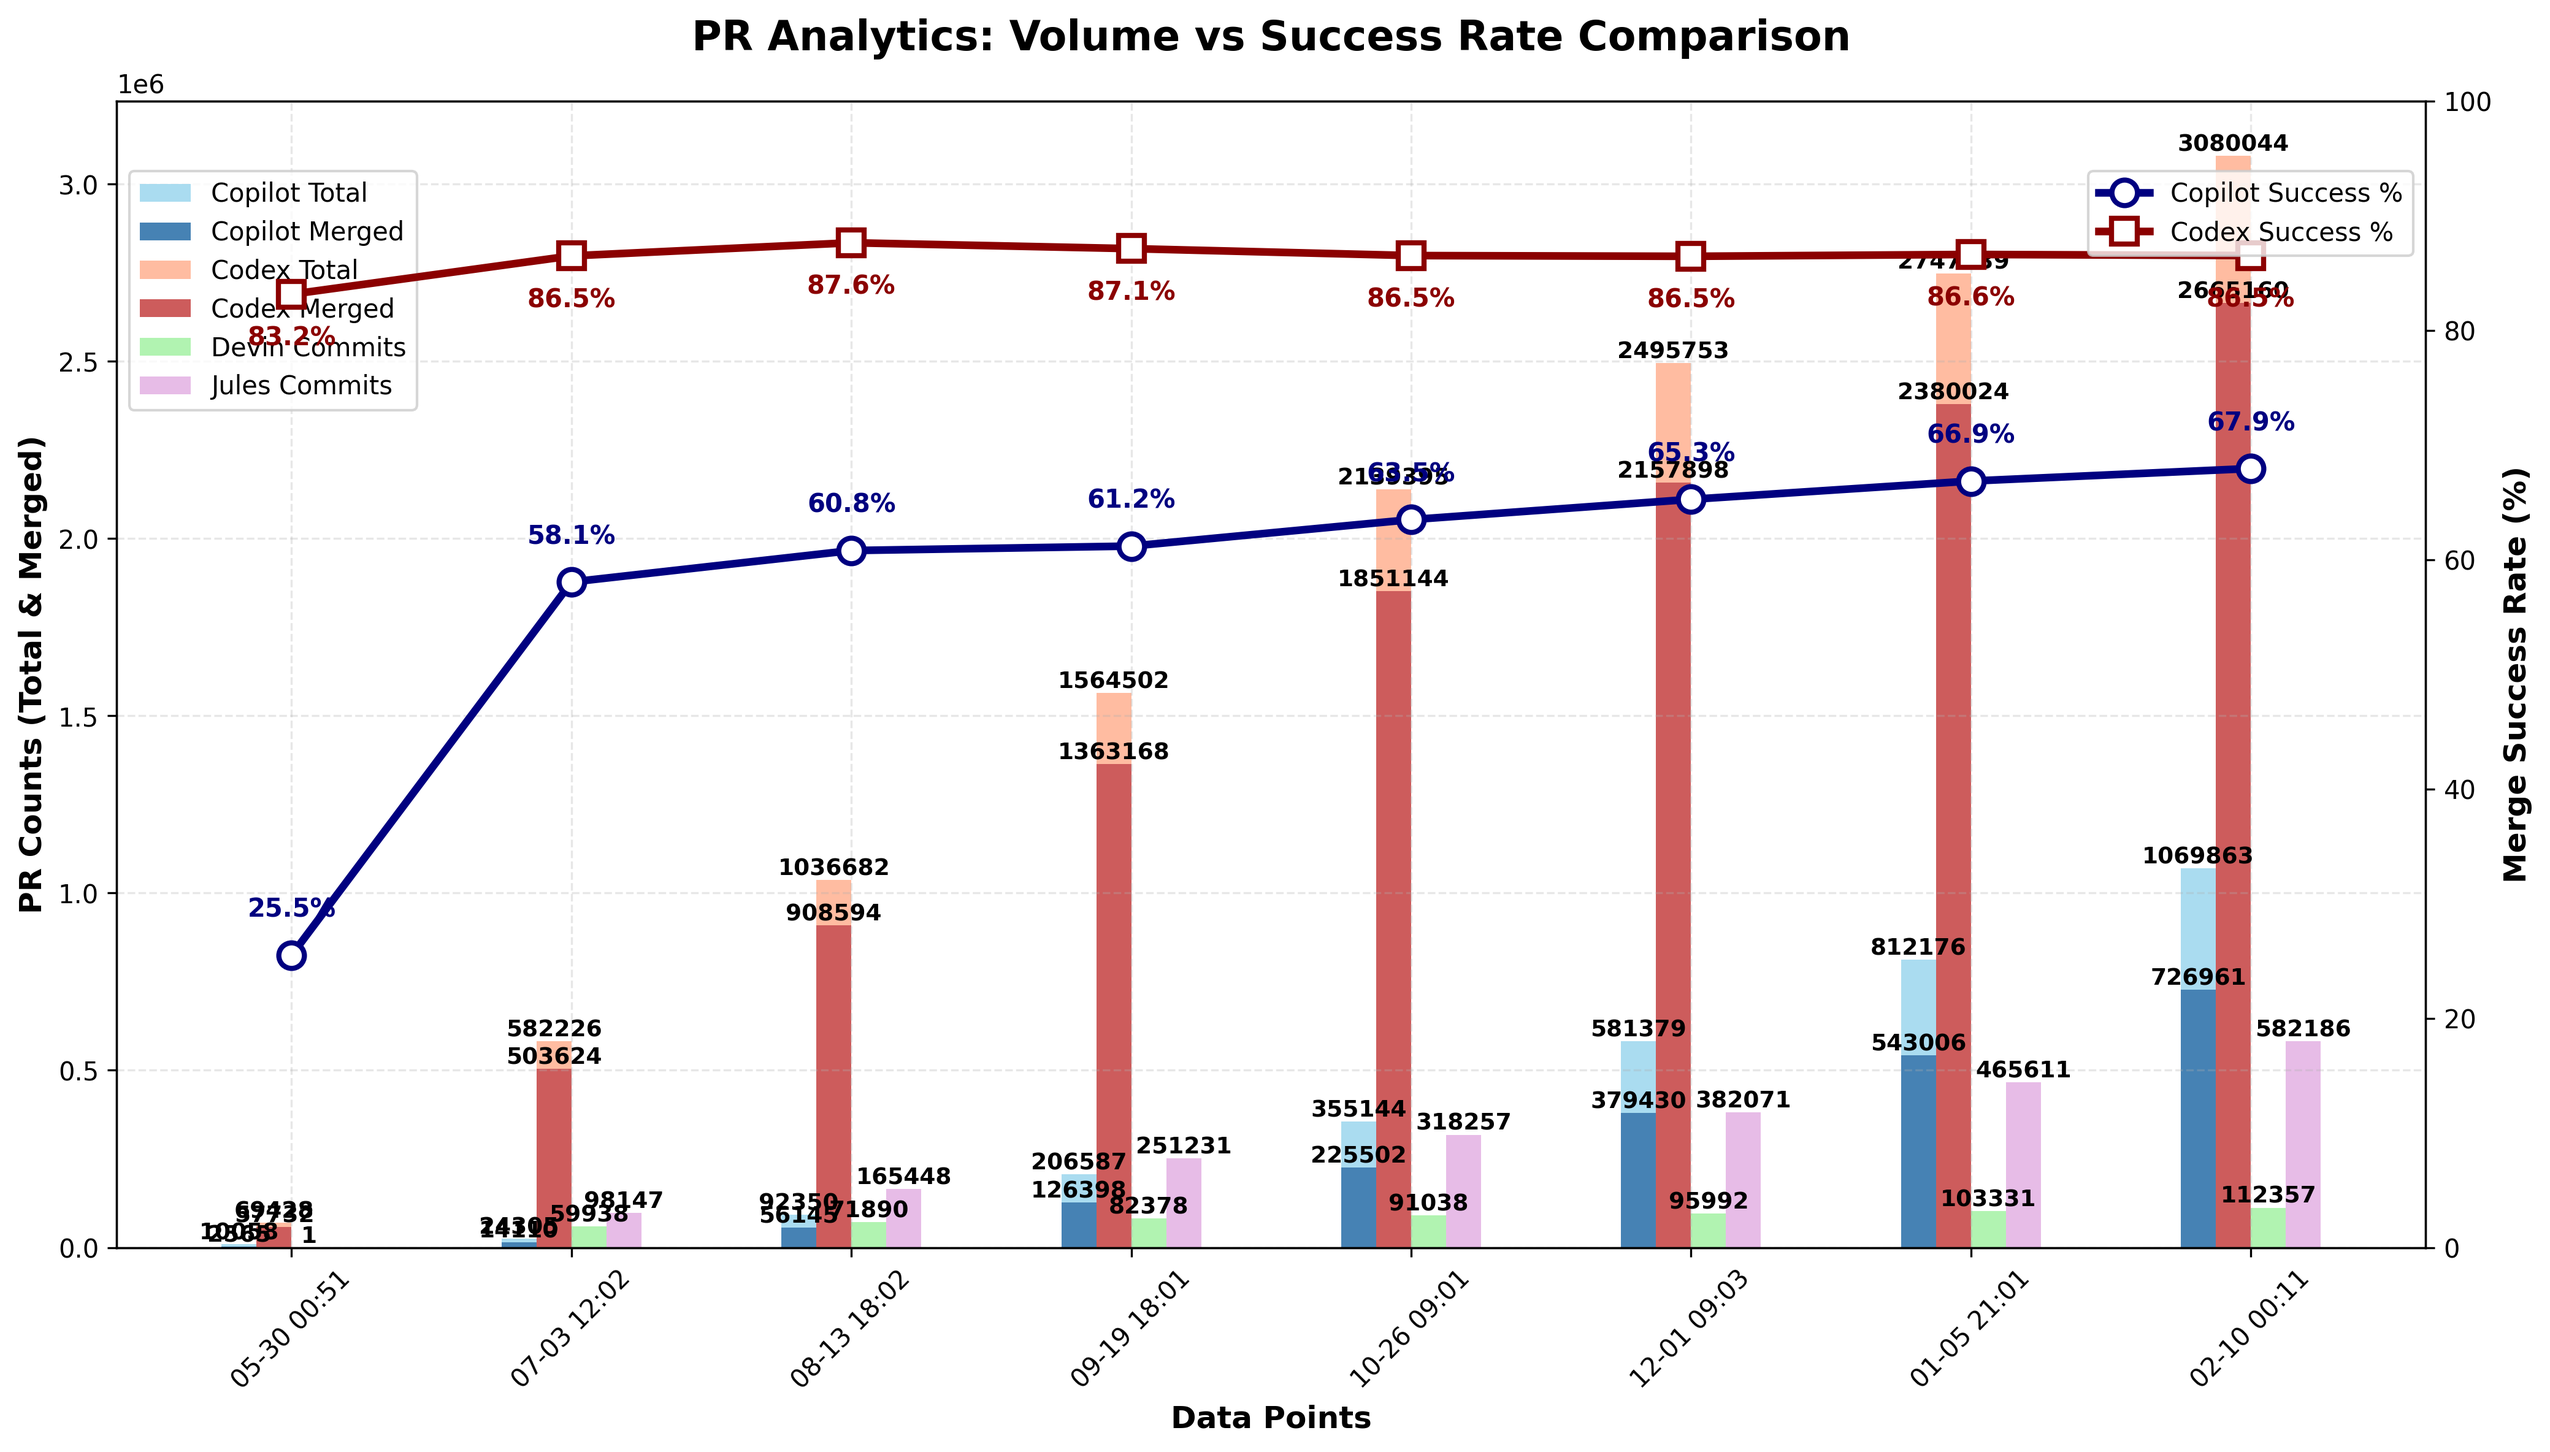
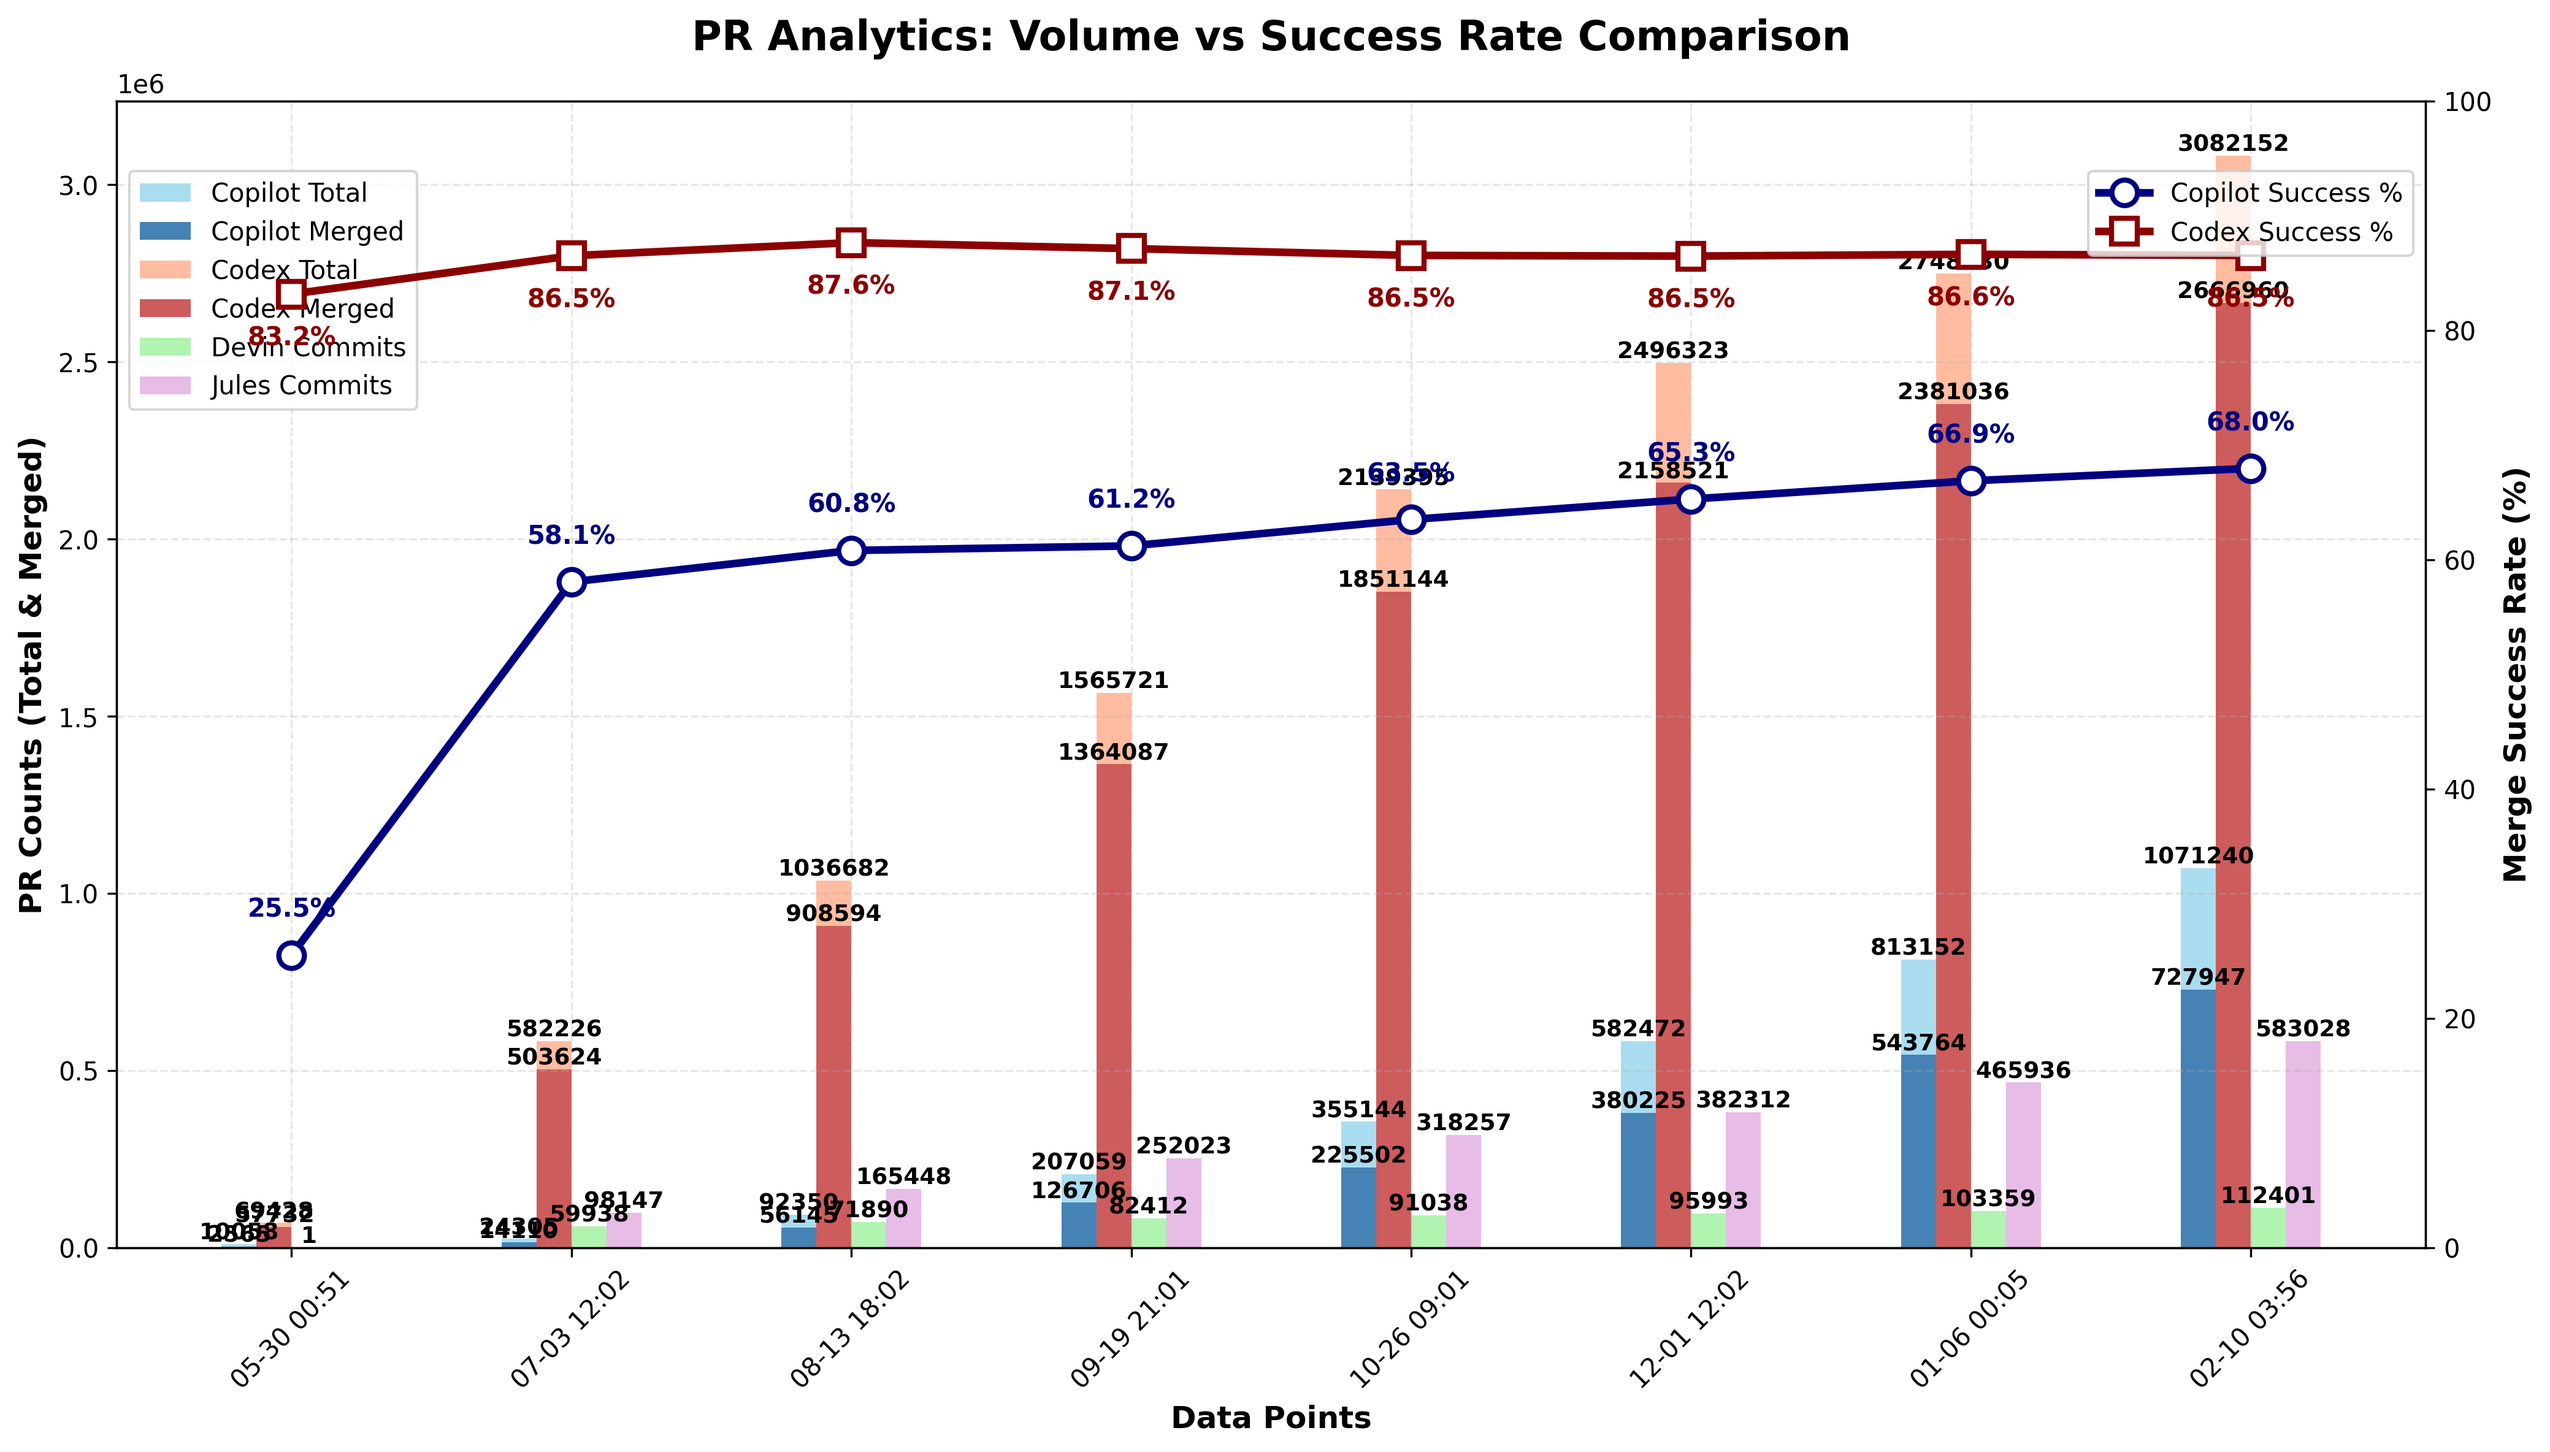
chore: update PR‑approval chart

diff --git a/docs/index.html b/docs/index.html
@@ -1977,6 +1977,7 @@
                         <td>N/A</td>
                         <td>N/A</td>
                         <td>N/A</td>
+                        <td>N/A</td>
                     </tr>
                     <tr>
                         <td>Codex</td>
@@ -3912,27 +3913,28 @@
                         <td>N/A</td>
                         <td>N/A</td>
                         <td>N/A</td>
+                        <td>N/A</td>
                     </tr>
                 <tr>
                         <td>Devin</td>
                         <td>N/A</td>
                         <td>N/A</td>
                         <td>N/A</td>
-                        <td>112,357</td>
+                        <td>112,401</td>
                     </tr>
                     <tr>
                         <td>Jules</td>
                         <td>N/A</td>
                         <td>N/A</td>
                         <td>N/A</td>
-                        <td>582,186</td>
+                        <td>583,028</td>
                     </tr>
                     </tbody>
             </table>
         </section>
 
         <footer>
-            <p>Last updated: <span id="last-updated">February 10, 2026 00:11 UTC</span></p>
+            <p>Last updated: <span id="last-updated">February 10, 2026 03:56 UTC</span></p>
             <p><a href="https://github.com/aavetis/ai-pr-watcher">View on GitHub</a></p>
         </footer>
     </div>

diff --git a/README.md b/README.md
@@ -19,7 +19,7 @@ Explore the GitHub search queries used:
 
 | Service | Total PRs | Merged PRs | Merge Rate | Total Commits |
 | ------- | --------- | ---------- | ---------- | ------------- |
-| Copilot | 1,069,863 | 726,961 | 67.95% | N/A           |
-| Codex   | 3,080,044 | 2,665,160 | 86.53% | N/A           |
-| Devin   | N/A       | N/A        | N/A        | 112,357 |
-| Jules   | N/A       | N/A        | N/A        | 582,186 |
+| Copilot | 1,071,240 | 727,947 | 67.95% | N/A           |
+| Codex   | 3,082,152 | 2,666,960 | 86.53% | N/A           |
+| Devin   | N/A       | N/A        | N/A        | 112,401 |
+| Jules   | N/A       | N/A        | N/A        | 583,028 |
